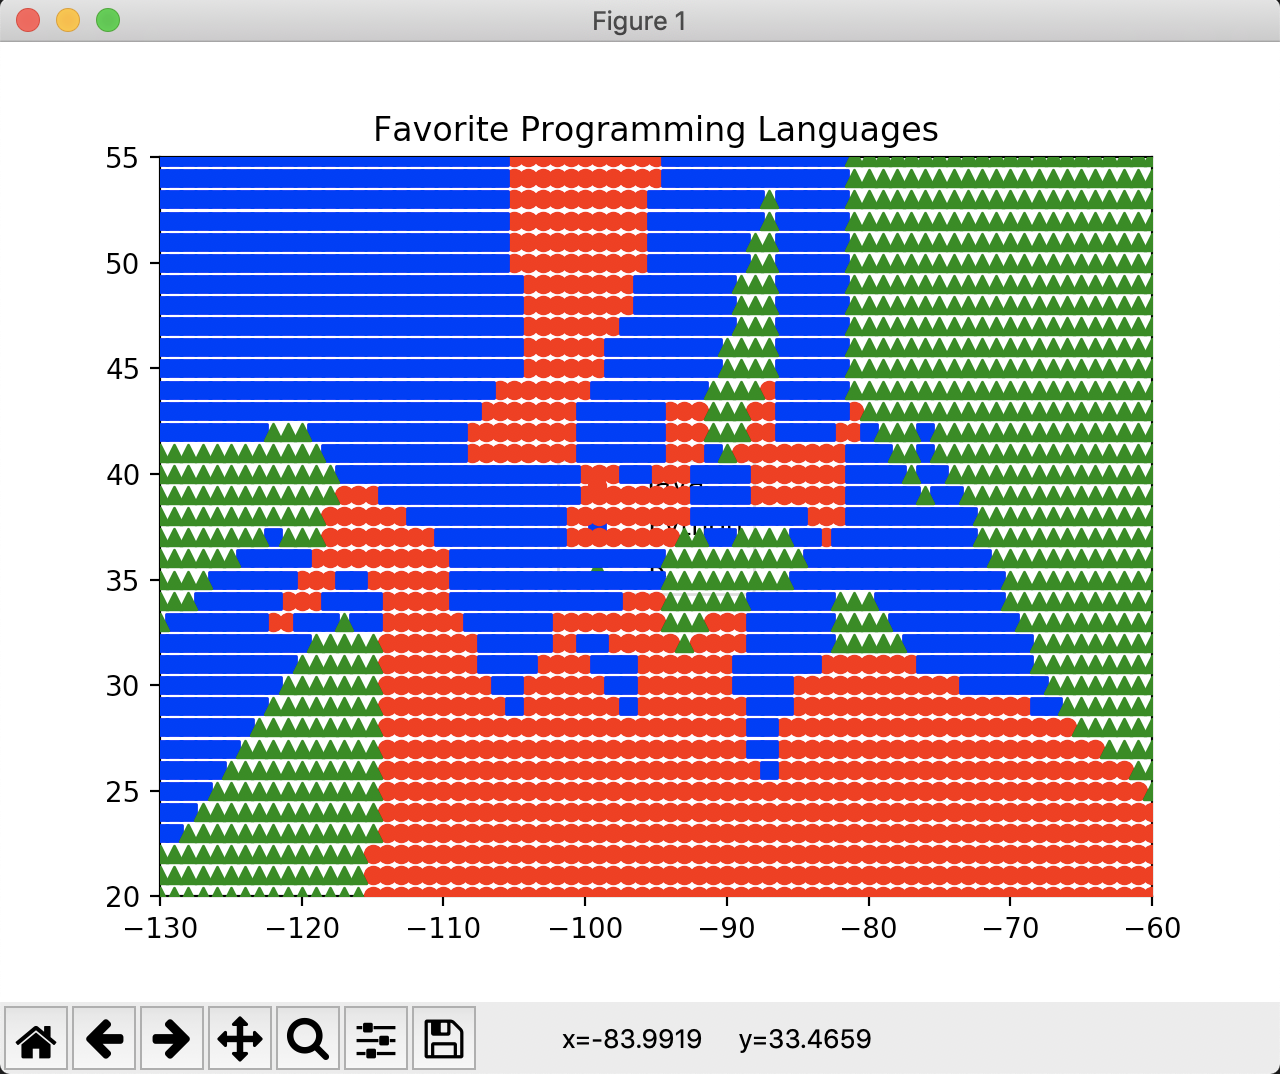
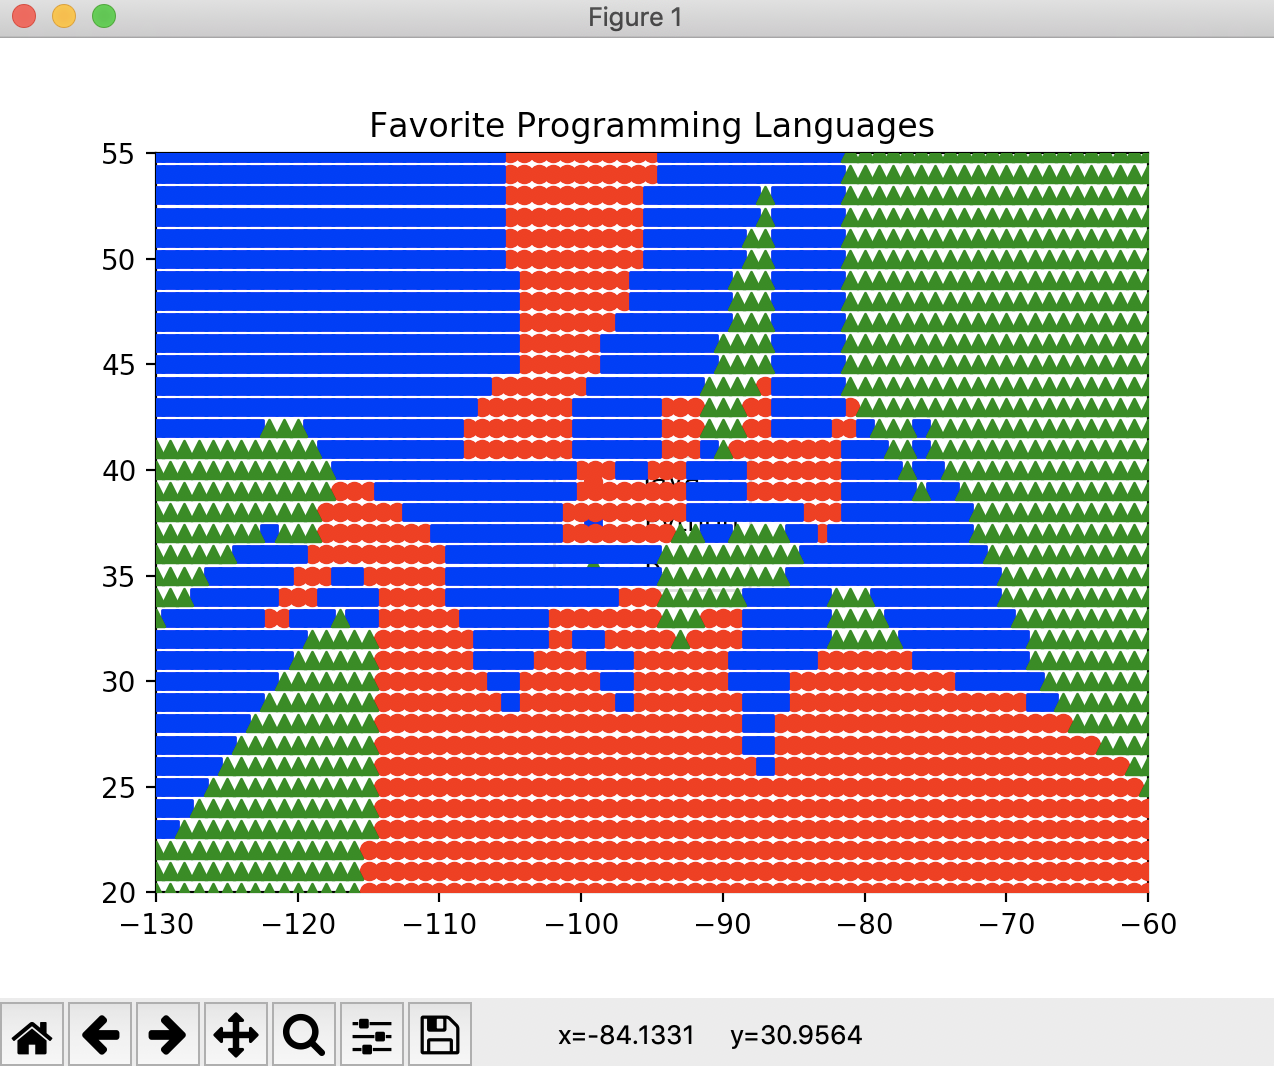
Code correction

diff --git a/knn.py b/knn.py
@@ -45,9 +45,11 @@ def predict_preferred_language_by_city(k_values, cities):
     num_correct = 0
     for k in k_values:
         num_correct = 0
-        for city in cities:
-            pred = knn_classify(k, cities, city[0])
-            if(pred == city[1]):
+        for i in range(len(cities)):
+            cities_list = cities.copy()
+            del cities_list[i]
+            pred = knn_classify(k, cities_list, cities[i][0])
+            if(pred == cities[i][1]):
                 num_correct += 1
         print(k, "neighbor[s]:", num_correct, "correct out of", len(cities))
 
